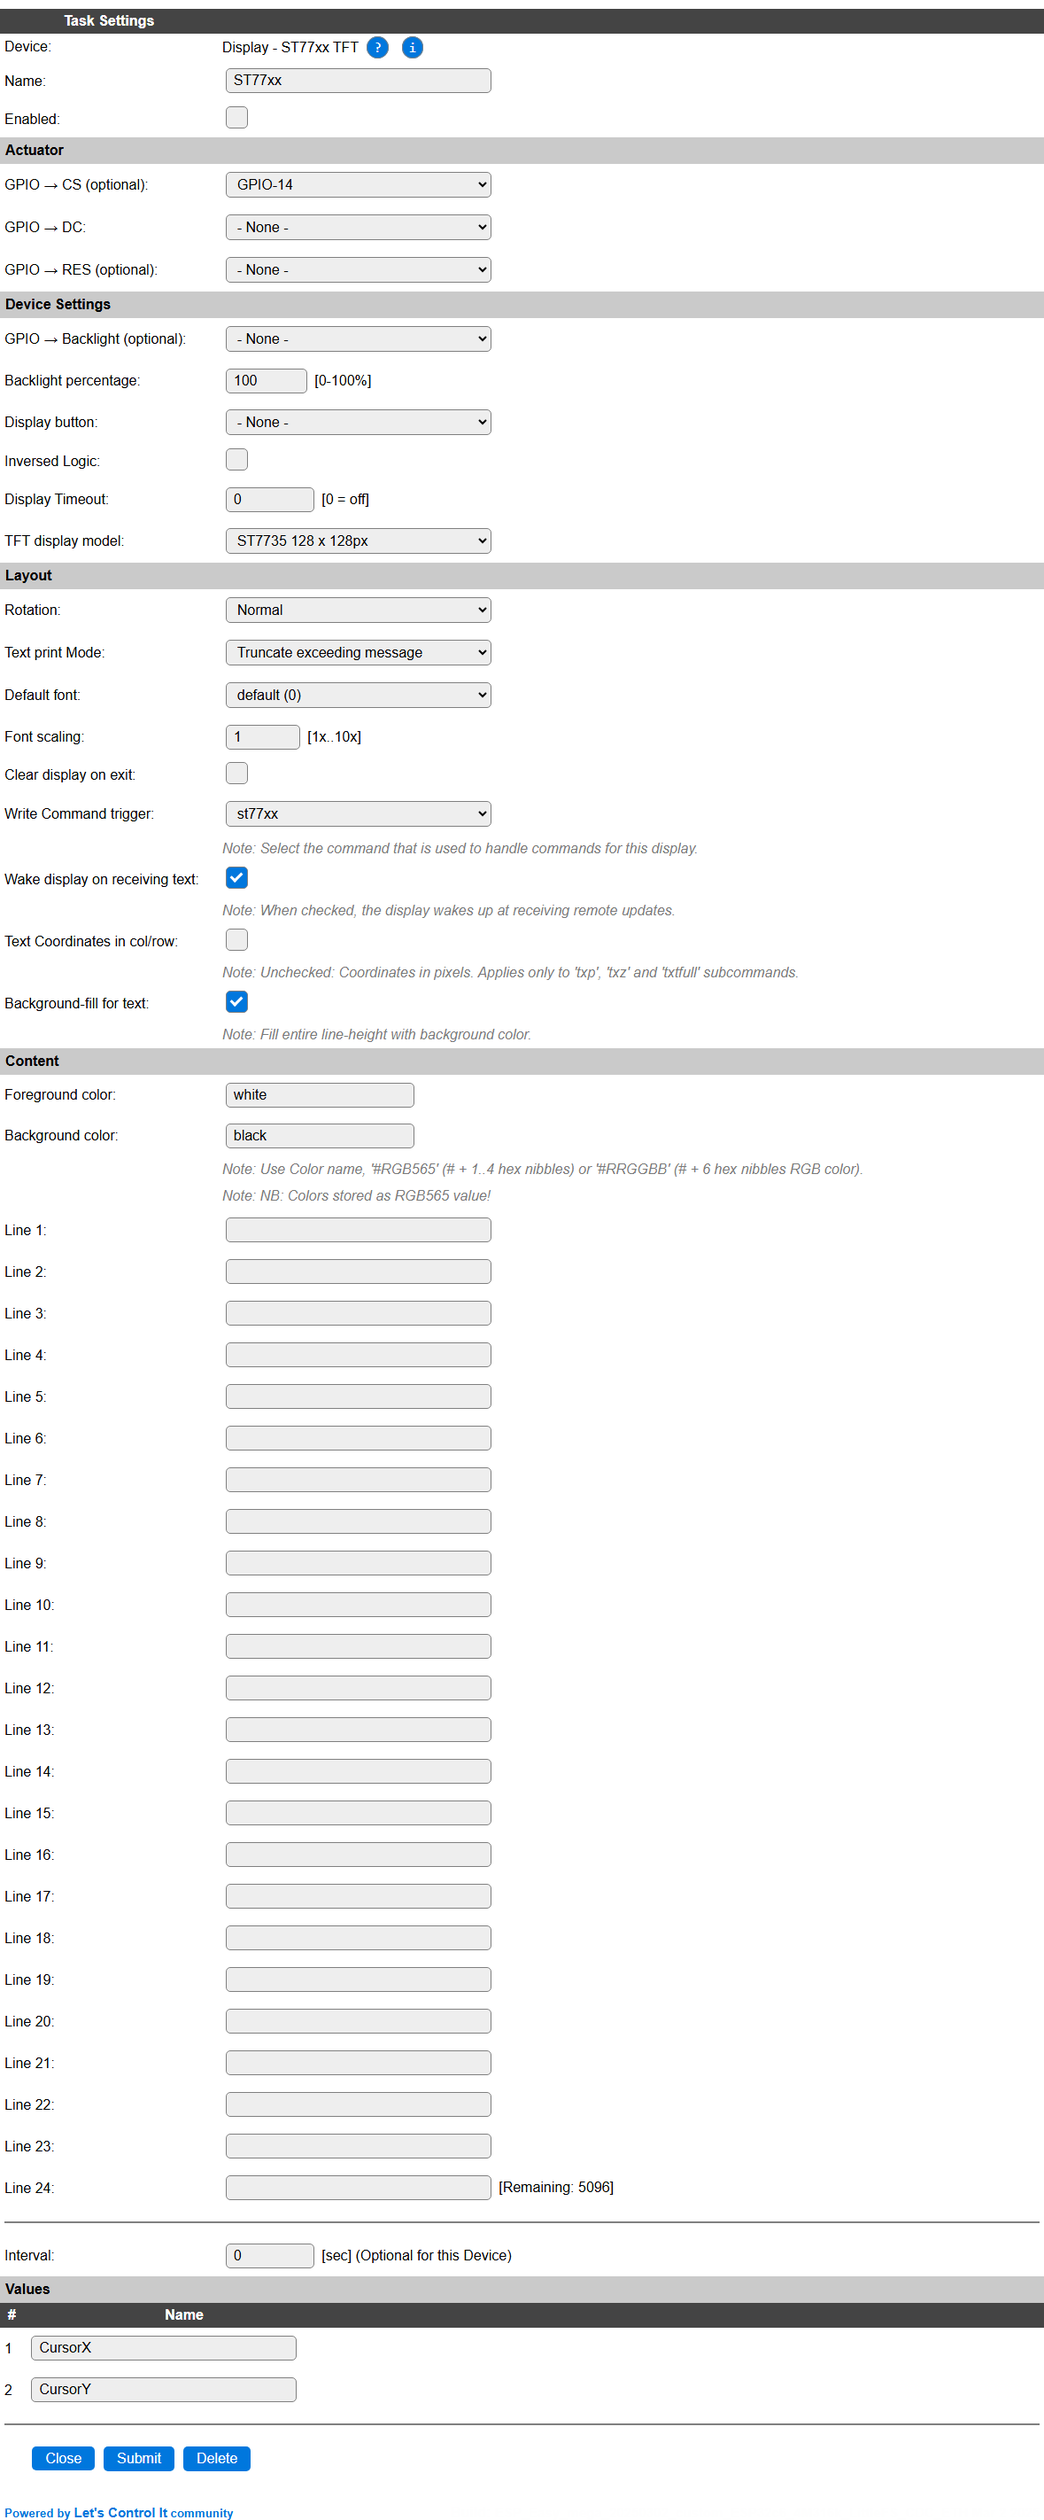
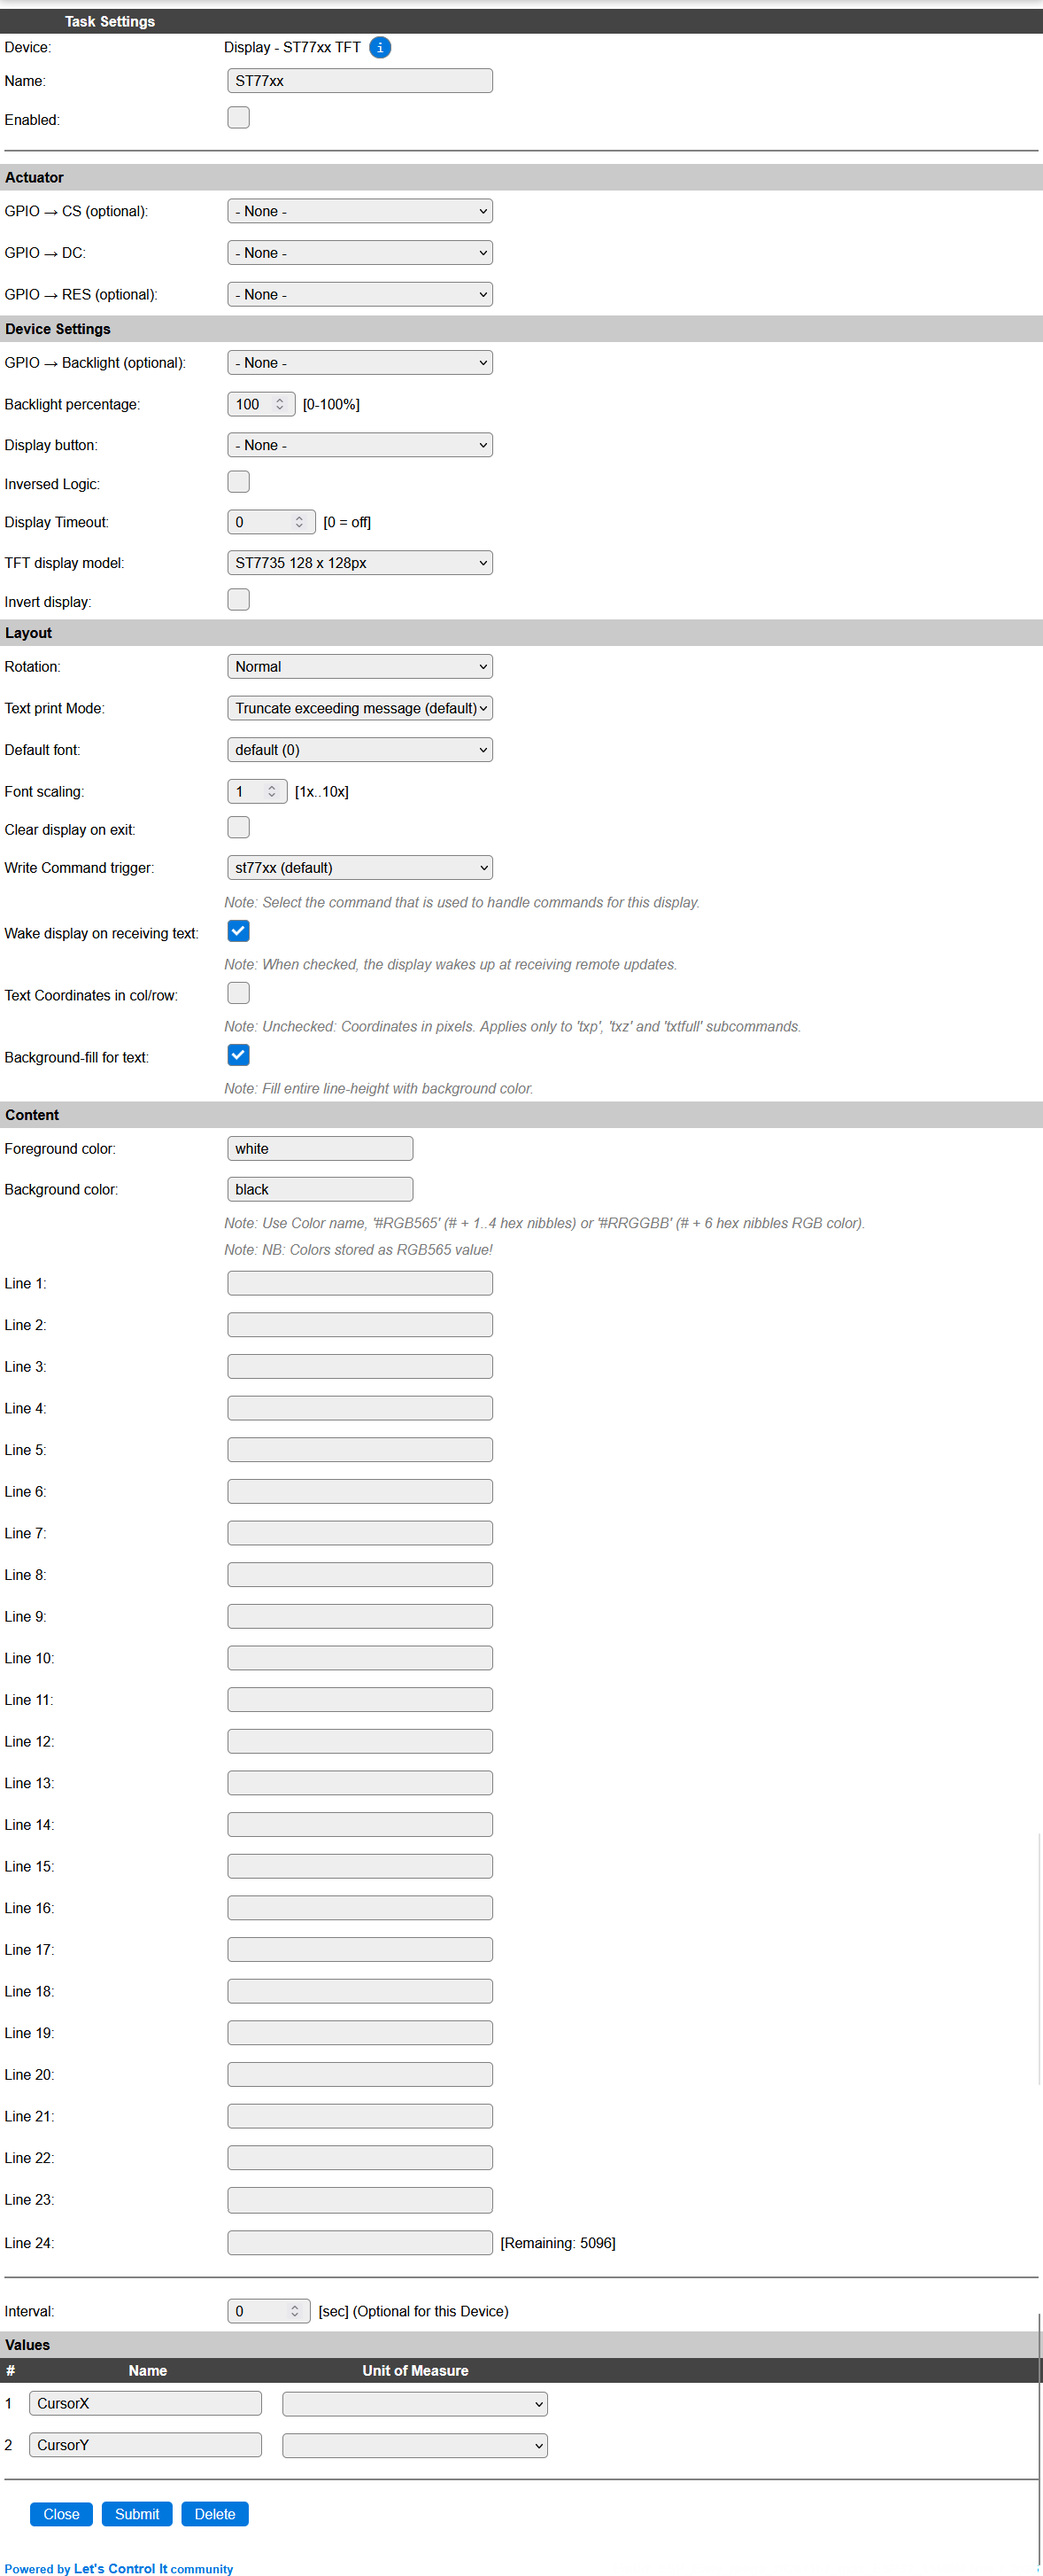
[P116] Docs, update with new supported resolutions

Changed region(s): [[0.0, 0.0, 1.0, 1.0], [0.9779, 0.9592, 1.0, 0.9902]]

diff --git a/docs/source/Plugin/P116.rst b/docs/source/Plugin/P116.rst
@@ -159,6 +159,9 @@ Available options:
 * *ST7789 135 x 240px (alt2)*: Alternative initialization sequence 2.
 * *ST7789 135 x 240px (alt3)*: Alternative initialization sequence 3.
 * *ST7796 320 x 480px*: Allows 32 or 48 lines of text in the smallest font scaling setting.
+* *ST7796 320 x 480px (alt1)*: Uses an alternative initialization sequence, that may be needed for some displays.
+
+* **Invert display**: When checked will Invert display colors, as some displays have foreground and background colors swapped, this option is applied at plugin initialization.
 
 Layout
 ^^^^^^^^
